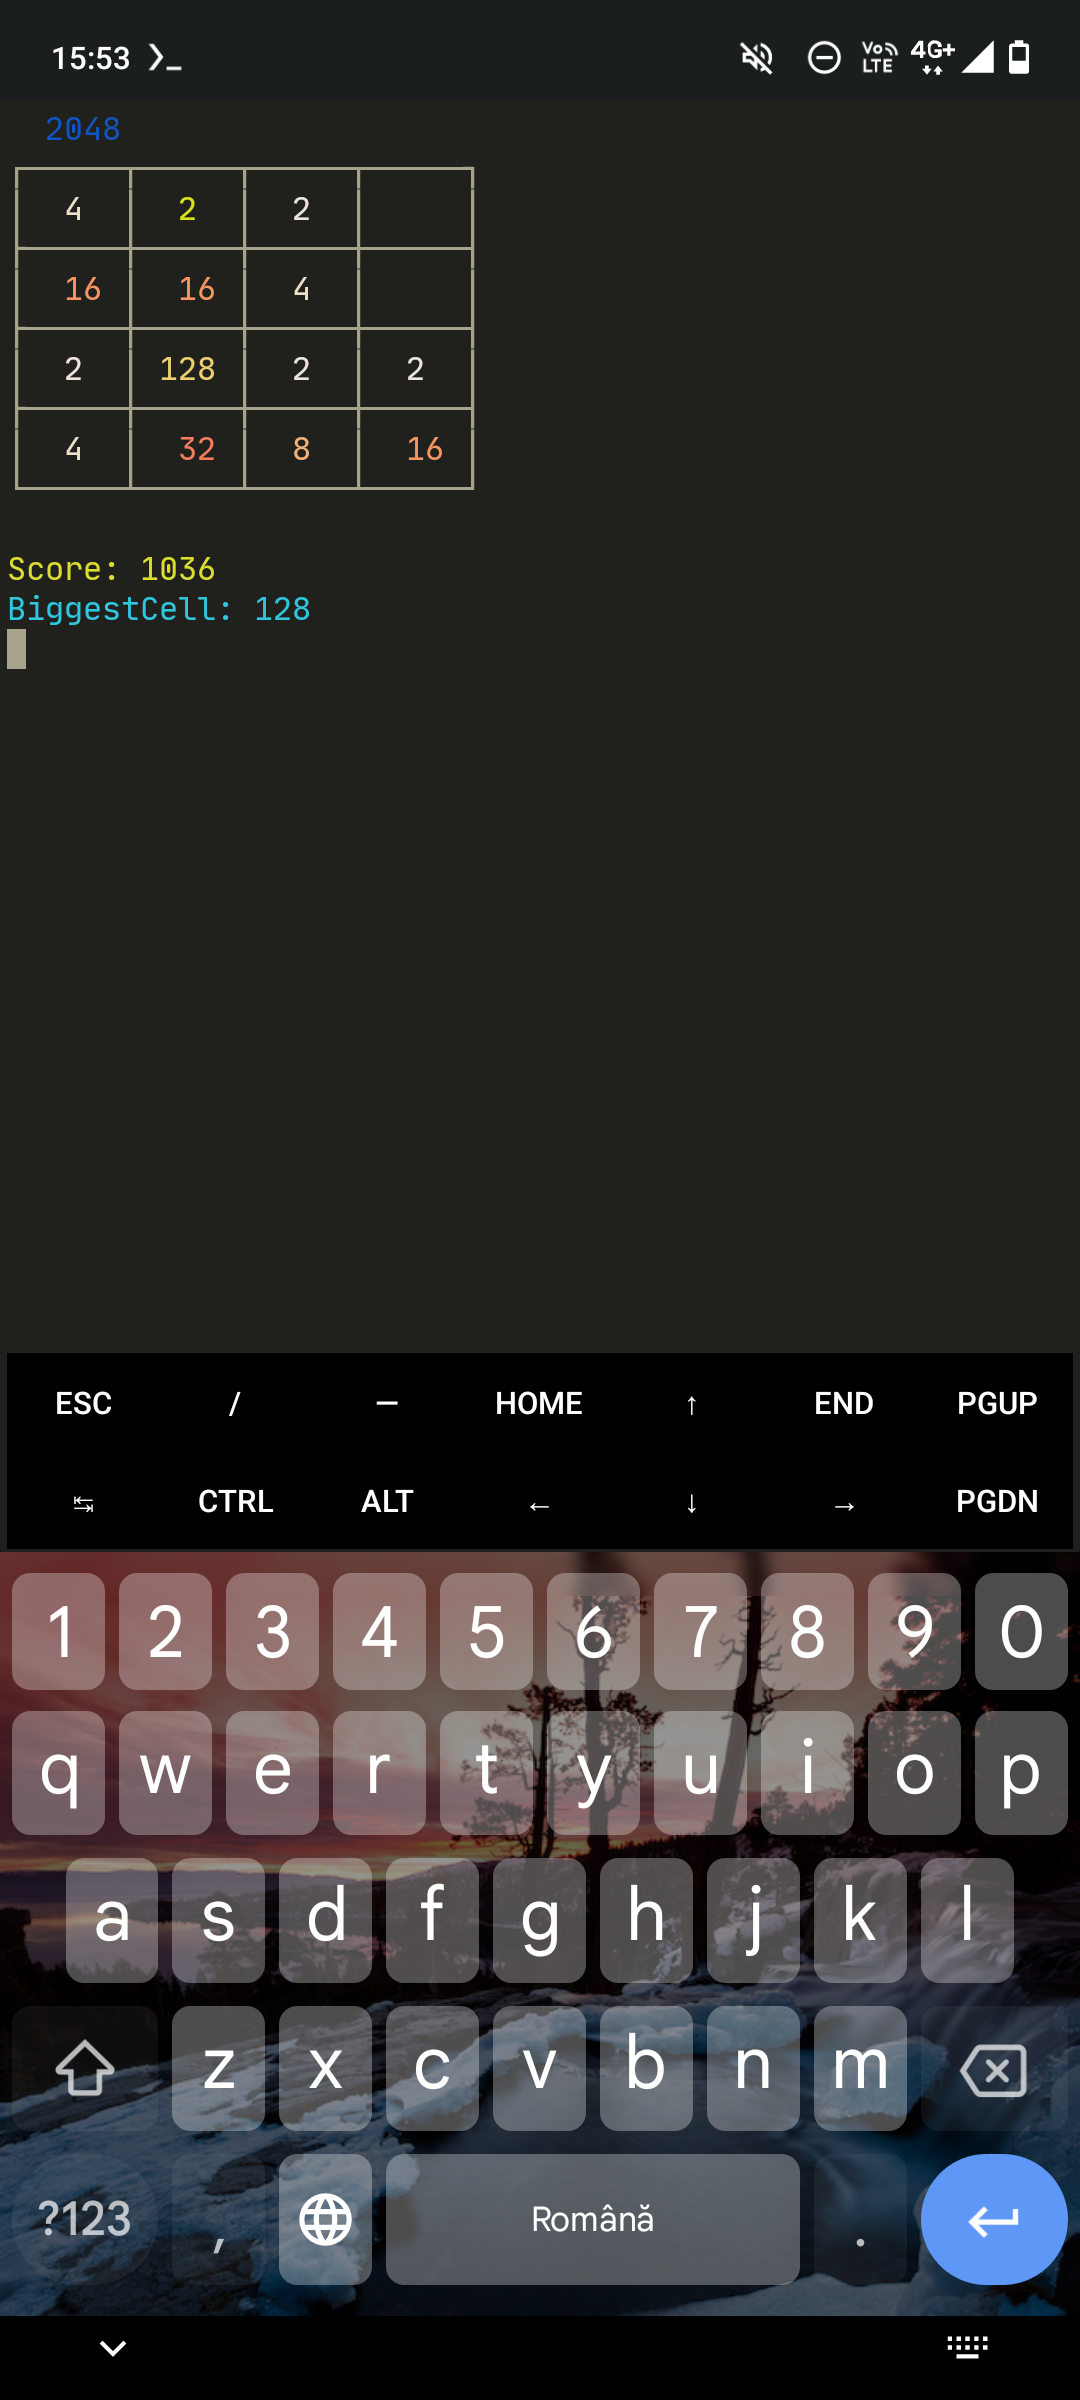
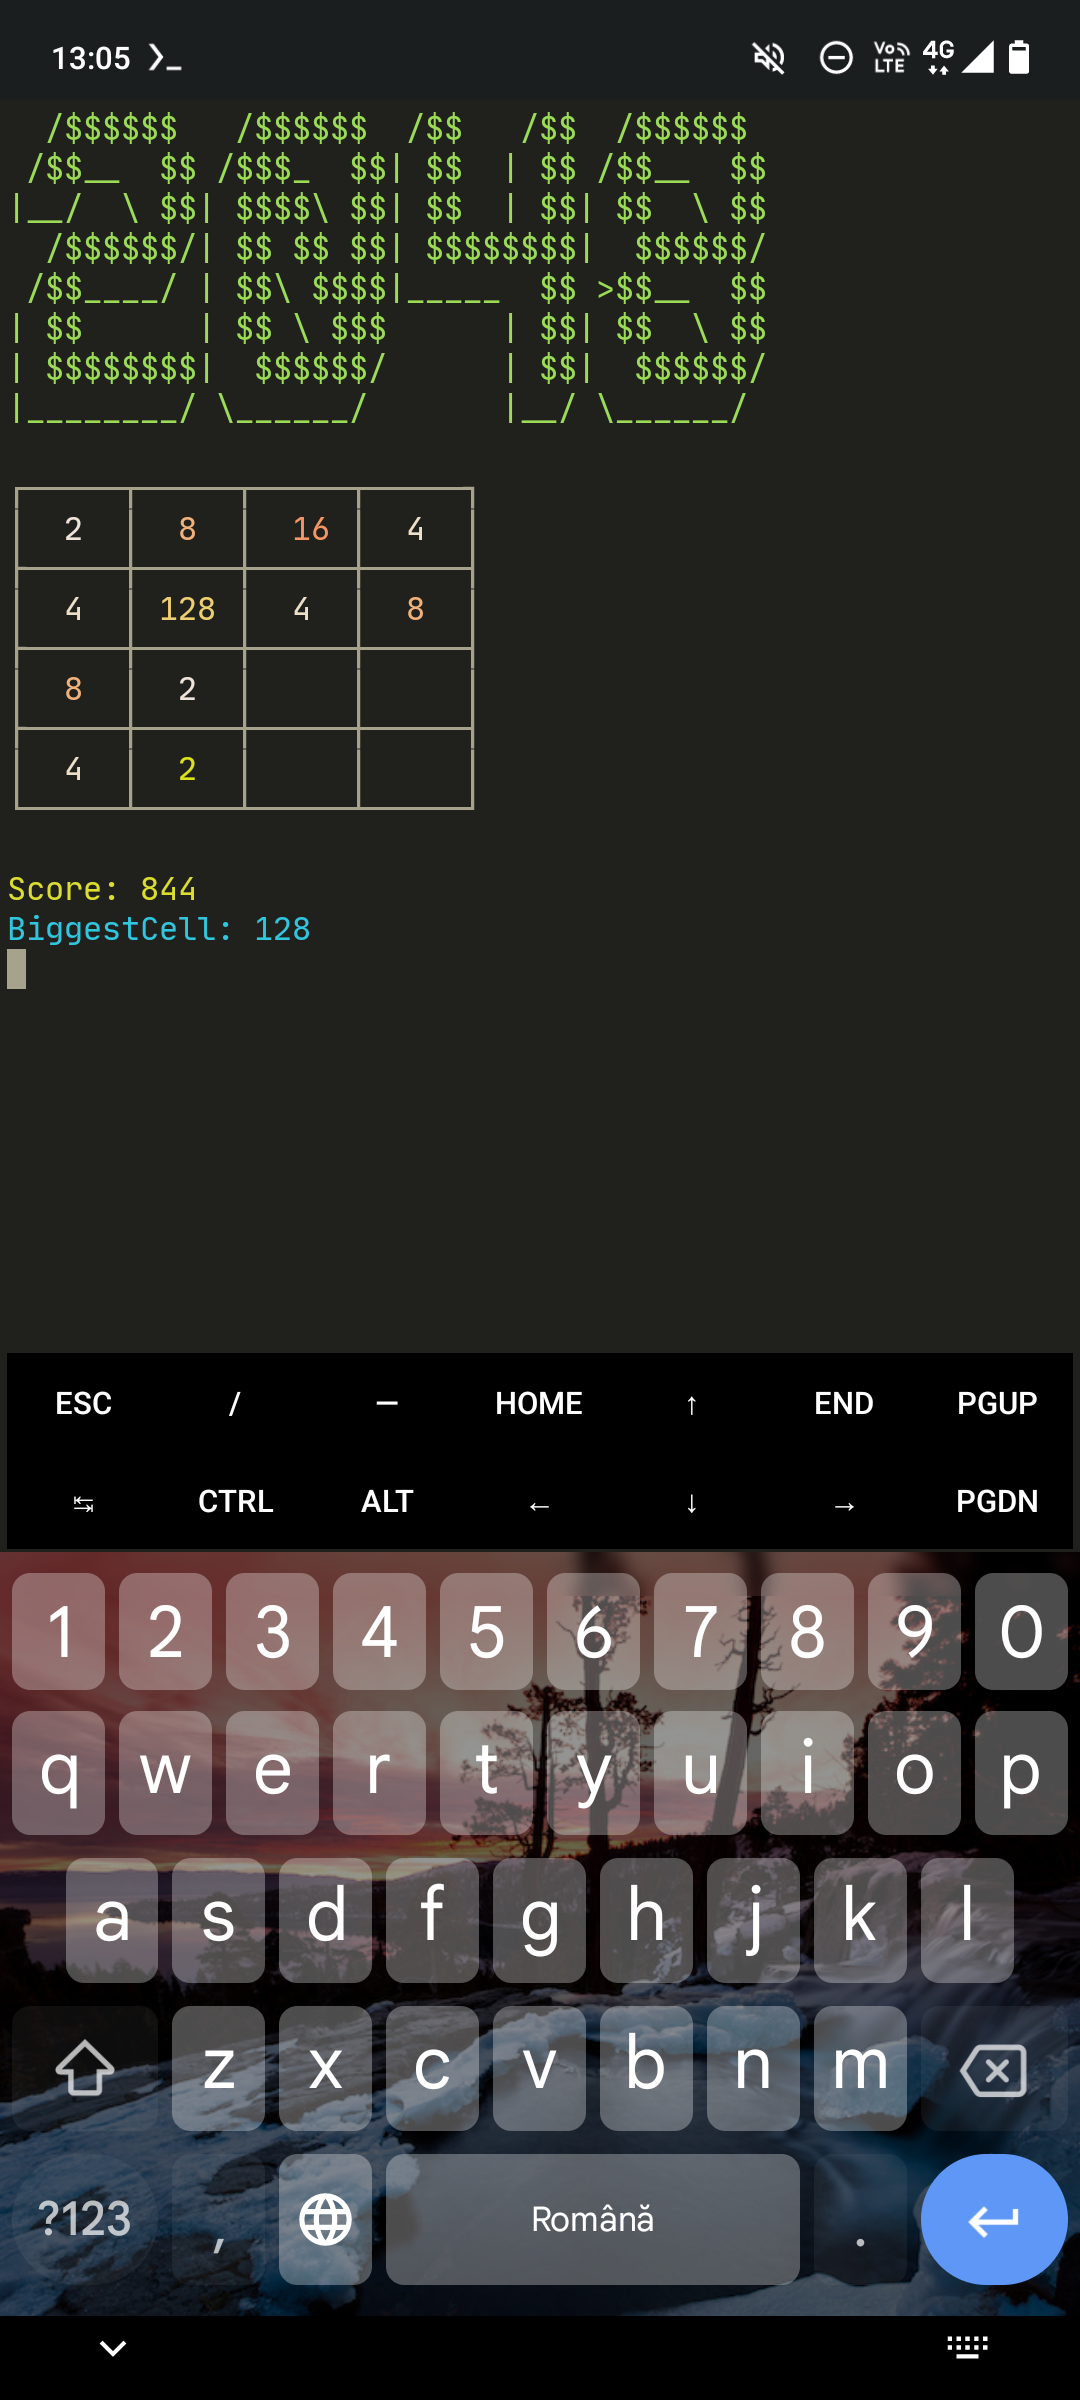
Improved readme, added title toggle, modified and added android screenshots

diff --git a/main.cpp b/main.cpp
@@ -19,7 +19,6 @@
 
 const RGB SelectedColor = RGB(245,212,66);
 const RGB UnselectedColor = RGB(112,109,96);
-const RGB ValueColor = RGB(155,219,86);
 
 const std::string SaveDirectory = "saves";
 const std::string DefaultSaveTitle = "Unnamed-Save-";
@@ -39,18 +38,6 @@ u32 boardSz;
 Difficulty difficulty;
 
 std::shared_ptr<Stats> stats;
-
-void printTitleArt() {
-    std::wcout << getCol(ValueColor)
-               << LR"(  /$$$$$$   /$$$$$$  /$$   /$$  /$$$$$$ )" << L'\n'
-               << LR"( /$$__  $$ /$$$_  $$| $$  | $$ /$$__  $$)" << L'\n'
-               << LR"(|__/  \ $$| $$$$\ $$| $$  | $$| $$  \ $$)" << L'\n'
-               << LR"(  /$$$$$$/| $$ $$ $$| $$$$$$$$|  $$$$$$/)" << L'\n'
-               << LR"( /$$____/ | $$\ $$$$|_____  $$ >$$__  $$)" << L'\n'
-               << LR"(| $$      | $$ \ $$$      | $$| $$  \ $$)" << L'\n'
-               << LR"(| $$$$$$$$|  $$$$$$/      | $$|  $$$$$$/)" << L'\n'
-               << LR"(|________/ \______/       |__/ \______/ )" << L"\n\n";
-}
 
 bool LoadStats() {
     if(!fs::is_regular_file(StatsPath)) {
@@ -81,8 +68,7 @@ void populateSaves() {
 void draw(const u8& idx) {
     clearScreen();
 
-    if(getWidth() > 40) printTitleArt();
-    else std::wcout << getCol(ValueColor) << L"--- 2048 ---\n\n";
+    outputTitle();
 
     std::wcout << getCol(idx==0?SelectedColor:UnselectedColor) << L"1) New " << ga(idx,0)
                << getCol(idx==1?SelectedColor:UnselectedColor) << L"2) Load " << ga(idx,1)
@@ -102,6 +88,8 @@ std::string getFirstValidName() {
 
 void drawLoad(u8 idx) {
     clearScreen();
+    outputTitle();
+
     for(u32 i=0; i < savesSize; i++) {
         const Gamesave& g = saves[i];
         std::wcout << getCol(idx==i?SelectedColor:UnselectedColor)
@@ -217,7 +205,7 @@ void launchLoadMenu() {
 void setDefSettings() {
     boardSz = 4;
     difficulty = Medium;
-    useCol = true; 
+    useCol = useTitle = true; 
 }
 
 void loadSettings() {
@@ -226,6 +214,7 @@ void loadSettings() {
     boardSz = readBF<u32>(is);
     difficulty = readBF<Difficulty>(is);
     useCol = is.get() != 0;
+    useTitle = is.get() != 0;
     is.close();
 }
 
@@ -235,6 +224,7 @@ void saveSettings() {
     writeBF<u32>(os, boardSz);
     writeBF<Difficulty>(os, difficulty);
     writeBF<bool>(os, useCol);
+    writeBF<bool>(os, useTitle);
     os.close();
 }
 
@@ -262,10 +252,13 @@ bool LoadSettings() {
 
 void drawSettings(u8 idx) {
     clearScreen();
+    outputTitle();
+
     std::wcout << getCol(idx==0?SelectedColor:UnselectedColor) << L"1) Change size: " << boardSz << L' ' << ga(idx,0)
                << getCol(idx==1?SelectedColor:UnselectedColor) << L"2) Change difficulty: " << DIFF[difficulty] << L' ' << ga(idx,1)
                << getCol(idx==2?SelectedColor:UnselectedColor) << L"3) Color Support: " << (useCol?L"On ":L"Off ") << ga(idx,2)
-               << getCol(idx==3?SelectedColor:UnselectedColor) <<  L"4) Back " << ga(idx,3)
+               << getCol(idx==3?SelectedColor:UnselectedColor) << L"4) Draw Full Title: "<< (useTitle?L"Yes ":L"No ") << ga(idx,3)
+               << getCol(idx==4?SelectedColor:UnselectedColor) <<  L"5) Back " << ga(idx,4)
                << getCol();
 }
 
@@ -334,7 +327,8 @@ bool execSettings(u8 idx) {
 
         case 1: launchDifficulties(); break;
         case 2: useCol = !useCol; saveSettings(); break;
-        case 3: return false;
+        case 3: useTitle = !useTitle; saveSettings(); break;
+        case 4: return false;
     } 
     return true;
 }
@@ -353,11 +347,11 @@ void launchSettingsMenu() {
 
         switch(c) {
             case 'w':
-            case 'a': idx += idx != 0 ? -1 : 3; 
+            case 'a': idx += idx != 0 ? -1 : 4; 
             break;
 
             case 's':
-            case 'd': idx += idx < 3 ? 1 : -3;
+            case 'd': idx += idx < 4 ? 1 : -4;
             break;
             
             case ' ': f = execSettings(idx); break;

diff --git a/utils.cpp b/utils.cpp
@@ -36,7 +36,8 @@ void cleanup(i32 sig) {
 
 #endif 
 
-bool useCol = true;
+bool useCol = true, useTitle = true;
+const u8 MinTitleWidth = 40;
 
 std::wstring stw(const std::string& s) {
     return {s.begin(), s.end()};
@@ -68,6 +69,23 @@ void clearScreen() {
     #else
     std::wcout << L"\033[2J\033[H";
     #endif
+}
+
+void outputTitle() {
+    if(!useTitle || getWidth() < MinTitleWidth) {
+        std::wcout << getCol(ValueColor) << L"--- 2048 ---\n\n";
+        return;
+    }
+
+    std::wcout << getCol(ValueColor)
+               << LR"(  /$$$$$$   /$$$$$$  /$$   /$$  /$$$$$$ )" << L'\n'
+               << LR"( /$$__  $$ /$$$_  $$| $$  | $$ /$$__  $$)" << L'\n'
+               << LR"(|__/  \ $$| $$$$\ $$| $$  | $$| $$  \ $$)" << L'\n'
+               << LR"(  /$$$$$$/| $$ $$ $$| $$$$$$$$|  $$$$$$/)" << L'\n'
+               << LR"( /$$____/ | $$\ $$$$|_____  $$ >$$__  $$)" << L'\n'
+               << LR"(| $$      | $$ \ $$$      | $$| $$  \ $$)" << L'\n'
+               << LR"(| $$$$$$$$|  $$$$$$/      | $$|  $$$$$$/)" << L'\n'
+               << LR"(|________/ \______/       |__/ \______/ )" << L"\n\n";
 }
 
 template u8 readBF<u8>(std::ifstream& is);

diff --git a/utils.h b/utils.h
@@ -15,7 +15,7 @@ using i32 = int32_t;
 using u_board = std::vector<std::vector<u8>>;
 using b_board = std::vector<std::vector<bool>>;
 
-extern bool useCol;
+extern bool useCol, useTitle;
 
 enum Difficulty { Potato, Easy, Medium, Hard };
 
@@ -30,8 +30,9 @@ std::wstring stw(const std::string&);
 std::wstring ga(u32, u32);
 
 u32 getWidth();
-
 void clearScreen();
+
+void outputTitle();
 
 template <typename T>
 T readBF(std::ifstream&);
@@ -44,6 +45,8 @@ struct RGB {
     RGB(u8 r, u8 g, u8 b);
     RGB(u8 c=0);
 };
+
+const RGB ValueColor = RGB(155,219,86);
 
 struct Gamesave {
     std::string Title, Path;

diff --git a/game.cpp b/game.cpp
@@ -63,7 +63,9 @@ Game::Game(const Gamesave& save, const std::shared_ptr<Stats>& sp, bool f)
 void Game::DrawBoard() const {
     const u32 CELL_SZ = s.BiggestCellCifCount + 2;
     clearScreen();
-    std::wcout << std::wstring(CELL_SZ/2, L' ') << getCol(TitleColor) << L"2048\n" << getCol() << TBL_CRS[2];
+    outputTitle();
+
+    std::wcout << getCol() << TBL_CRS[2];
     for(u32 i=0; i < s.BoardSize; i++) {
         std::wcout << std::wstring(CELL_SZ, TBL_CRS[0]);
         if (i < s.BoardSize-1) std::wcout << TBL_CRS[7];

diff --git a/README.md b/README.md
@@ -8,8 +8,14 @@ A fast cross-platform C++ terminal implementation of the classic game [2048](htt
 - Drawing tables with ASCII table symbols
 - Really fast on all systems
 
+# Settings
+- **Board Size**: The size of the board (default: 4)
+- **Color Support**: Whether to use colors or not (default: true)
+- **Output Title**: Whether to output the title or not (default: true)
+- **4 Difficulty Levels**: Potato, Easy, Medium and Hard (default: Medium)
+
 # Compatibility
-Works great with both Windows (not sure about windows 7 or older) and UNIX systems.
+Works great with both Windows (not sure about windows 8 or older) and UNIX systems.
 Linux has the best compatibility though (most of the code was written in termux).
 
 # Building
@@ -26,9 +32,25 @@ cd ..
 # Screenshots
 
 ## Android
+![Android Menu](./screenshots/android/menu.png)
+![Android Settings](./screenshots/android/settings.png)
 ![Android Stats](./screenshots/android/stats.png)
 ![Android Game](./screenshots/android/game.png)
 ![Android Saves](./screenshots/android/saves.png)
+
+## Arch Linux
+![Arch Linux Menu](./screenshots/arch/menu.png)
+![Arch Linux Settings](./screenshots/arch/settings.png)
+![Arch Linux Stats](./screenshots/arch/stats.png)
+![Arch Linux Game](./screenshots/arch/game.png)
+![Arch Linux Saves](./screenshots/arch/saves.png)
+
+## Windows
+![Windows Menu](./screenshots/windows/menu.png)
+![Windows Settings](./screenshots/windows/settings.png)
+![Windows Stats](./screenshots/windows/stats.png)
+![Windows Game](./screenshots/windows/game.png)
+![Windows Saves](./screenshots/windows/saves.png)
 
 # Contact
 You can contact me at cristi9270@gmail.com or cristi123612 on discord.
